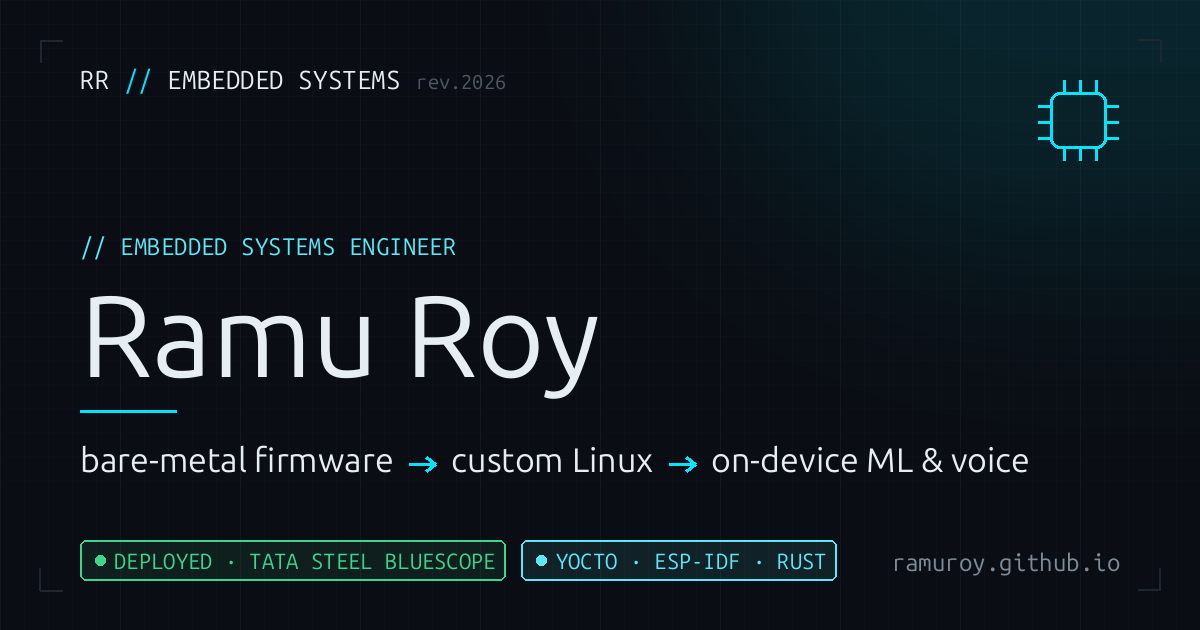
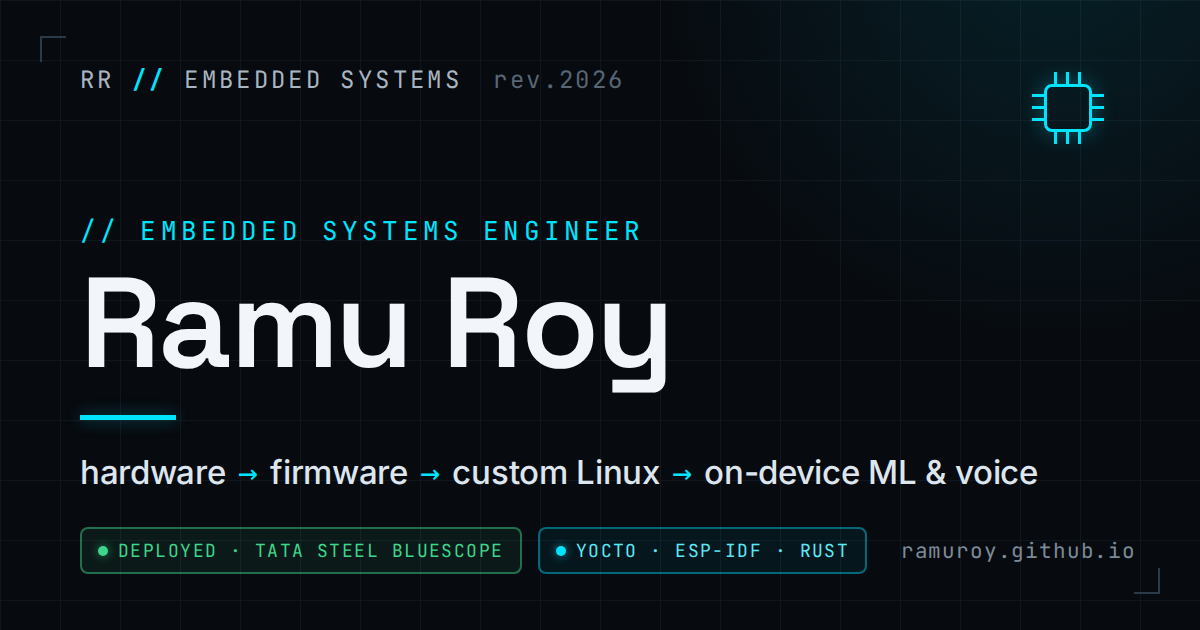
feat: regenerate og.png with the hardware-first chain (T1.8)
The social card previously read "bare-metal firmware -> custom Linux ->
on-device ML & voice", dropping the "hardware" step the site's whole
positioning leads with. New 1200x630 card renders from the committed
scripts/og-card.html template (repo fonts, token colors) via Playwright,
so it is reproducible when the positioning changes.

diff --git a/scripts/og-card.html b/scripts/og-card.html
@@ -1,0 +1,138 @@
+<!doctype html>
+<!--
+  Social-card template for public/og.png (1200x630).
+  Content mirrors src/data/site.ts (hero tagline + key proof); keep in sync
+  when the positioning changes. Regenerate with Playwright (installed on
+  demand, same as browser-smoke.mjs):
+
+    node -e "
+      const { chromium } = require('playwright');
+      (async () => {
+        const b = await chromium.launch();
+        const p = await b.newPage({ viewport: { width: 1200, height: 630 }, deviceScaleFactor: 1 });
+        await p.goto('file://' + process.cwd() + '/scripts/og-card.html');
+        await p.waitForTimeout(400); // fonts
+        await p.screenshot({ path: 'public/og.png' });
+        await b.close();
+      })();
+    "
+
+  Colors/typography mirror src/styles/tokens.css.
+-->
+<html lang="en">
+<head>
+<meta charset="utf-8" />
+<style>
+  @font-face {
+    font-family: "Space Grotesk Variable";
+    src: url("../node_modules/@fontsource-variable/space-grotesk/files/space-grotesk-latin-wght-normal.woff2") format("woff2");
+    font-weight: 300 700;
+  }
+  @font-face {
+    font-family: "Inter Variable";
+    src: url("../node_modules/@fontsource-variable/inter/files/inter-latin-wght-normal.woff2") format("woff2");
+    font-weight: 100 900;
+  }
+  @font-face {
+    font-family: "JetBrains Mono Variable";
+    src: url("../node_modules/@fontsource-variable/jetbrains-mono/files/jetbrains-mono-latin-wght-normal.woff2") format("woff2");
+    font-weight: 100 800;
+  }
+  * { margin: 0; box-sizing: border-box; }
+  html, body { width: 1200px; height: 630px; overflow: hidden; }
+  body {
+    background: #070A0F;
+    background-image:
+      radial-gradient(700px circle at 88% -10%, rgba(0, 229, 255, 0.10), transparent 60%),
+      repeating-linear-gradient(to right, #10161e 0 1px, transparent 1px 60px),
+      repeating-linear-gradient(to bottom, #10161e 0 1px, transparent 1px 60px);
+    color: #E6EDF3;
+    font-family: "Inter Variable", sans-serif;
+    position: relative;
+    padding: 64px 80px;
+  }
+  /* corner registration ticks */
+  .tick { position: absolute; width: 26px; height: 26px; }
+  .tick--tl { top: 36px; left: 40px; border-top: 2px solid #2C3A47; border-left: 2px solid #2C3A47; }
+  .tick--br { bottom: 36px; right: 40px; border-bottom: 2px solid #2C3A47; border-right: 2px solid #2C3A47; }
+
+  .masthead {
+    font-family: "JetBrains Mono Variable", monospace;
+    font-size: 24px; letter-spacing: 0.14em; color: #A9B6C2;
+  }
+  .masthead b { color: #00E5FF; font-weight: 600; }
+  .masthead .rev { color: #586675; margin-left: 14px; letter-spacing: 0.1em; }
+
+  /* chip icon, top right */
+  .chip { position: absolute; top: 72px; right: 96px; width: 72px; height: 72px; }
+  .chip .die { position: absolute; inset: 12px; border: 3px solid #00E5FF; border-radius: 8px; box-shadow: 0 0 22px rgba(0,229,255,0.35); }
+  .chip .pin { position: absolute; background: #00E5FF; }
+  .chip .pin.h { width: 12px; height: 3px; }
+  .chip .pin.v { width: 3px; height: 12px; }
+
+  .eyebrow {
+    margin-top: 118px;
+    font-family: "JetBrains Mono Variable", monospace;
+    font-size: 26px; letter-spacing: 0.16em; color: #00E5FF;
+  }
+  h1 {
+    margin-top: 10px;
+    font-family: "Space Grotesk Variable", sans-serif;
+    font-weight: 600; font-size: 128px; line-height: 1.02; color: #F2F6FA;
+    letter-spacing: -0.02em;
+  }
+  .rule { width: 96px; height: 5px; background: #00E5FF; margin: 26px 0 30px; box-shadow: 0 0 16px rgba(0,229,255,0.4); }
+  .chain {
+    font-size: 33px; color: #DDE6ee; font-weight: 500; letter-spacing: -0.01em;
+  }
+  .chain .arrow { color: #00E5FF; font-family: "JetBrains Mono Variable", monospace; padding: 0 4px; }
+
+  .foot { position: absolute; left: 80px; right: 64px; bottom: 56px; display: flex; align-items: center; gap: 16px; }
+  .pill {
+    font-family: "JetBrains Mono Variable", monospace;
+    font-size: 18px; letter-spacing: 0.08em;
+    padding: 10px 16px; border-radius: 8px; display: inline-flex; align-items: center; gap: 10px;
+    white-space: nowrap;
+  }
+  .pill .dot { width: 10px; height: 10px; border-radius: 50%; }
+  .pill--deployed { color: #3DD68C; border: 2px solid rgba(61, 214, 140, 0.45); background: rgba(61, 214, 140, 0.08); }
+  .pill--deployed .dot { background: #3DD68C; box-shadow: 0 0 10px rgba(61,214,140,0.6); }
+  .pill--stack { color: #5BE9F7; border: 2px solid rgba(0, 229, 255, 0.4); background: rgba(0, 229, 255, 0.06); }
+  .pill--stack .dot { background: #00E5FF; box-shadow: 0 0 10px rgba(0,229,255,0.6); }
+  .site { margin-left: auto; font-family: "JetBrains Mono Variable", monospace; font-size: 21px; color: #7C8B99; letter-spacing: 0.04em; white-space: nowrap; }
+</style>
+</head>
+<body>
+  <div class="tick tick--tl"></div>
+  <div class="tick tick--br"></div>
+
+  <div class="masthead">RR <b>//</b> EMBEDDED SYSTEMS <span class="rev">rev.2026</span></div>
+
+  <div class="chip">
+    <div class="die"></div>
+    <div class="pin h" style="top:22px; left:0;"></div>
+    <div class="pin h" style="top:34px; left:0;"></div>
+    <div class="pin h" style="top:46px; left:0;"></div>
+    <div class="pin h" style="top:22px; right:0;"></div>
+    <div class="pin h" style="top:34px; right:0;"></div>
+    <div class="pin h" style="top:46px; right:0;"></div>
+    <div class="pin v" style="left:22px; top:0;"></div>
+    <div class="pin v" style="left:34px; top:0;"></div>
+    <div class="pin v" style="left:46px; top:0;"></div>
+    <div class="pin v" style="left:22px; bottom:0;"></div>
+    <div class="pin v" style="left:34px; bottom:0;"></div>
+    <div class="pin v" style="left:46px; bottom:0;"></div>
+  </div>
+
+  <div class="eyebrow">// EMBEDDED SYSTEMS ENGINEER</div>
+  <h1>Ramu Roy</h1>
+  <div class="rule"></div>
+  <div class="chain">hardware <span class="arrow">→</span> firmware <span class="arrow">→</span> custom Linux <span class="arrow">→</span> on-device ML &amp; voice</div>
+
+  <div class="foot">
+    <span class="pill pill--deployed"><span class="dot"></span>DEPLOYED · TATA STEEL BLUESCOPE</span>
+    <span class="pill pill--stack"><span class="dot"></span>YOCTO · ESP-IDF · RUST</span>
+    <span class="site">ramuroy.github.io</span>
+  </div>
+</body>
+</html>
